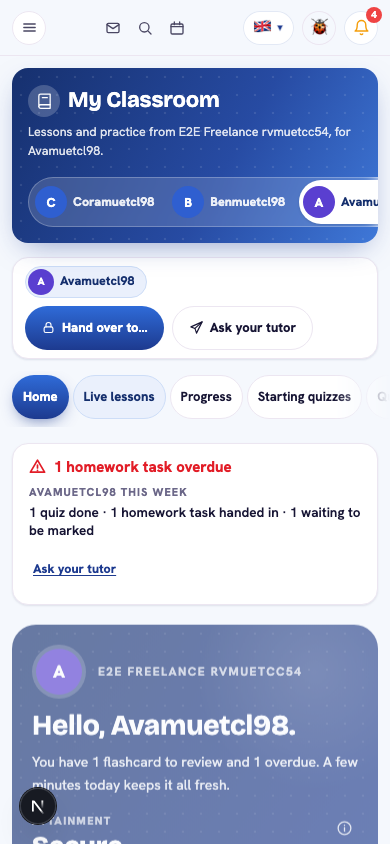
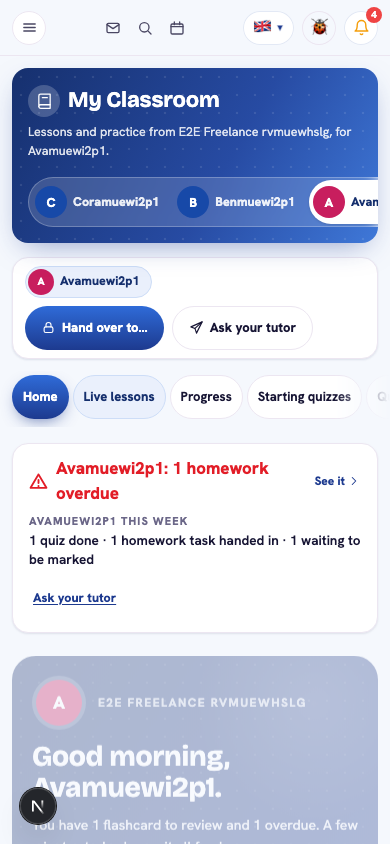
hub: R-12 printable progress report

diff --git a/features/learninghub/progress/ProgressReport.tsx b/features/learninghub/progress/ProgressReport.tsx
@@ -1,0 +1,133 @@
+"use client";
+
+import { useEffect, useMemo, useState } from "react";
+import { createPortal } from "react-dom";
+import { get } from "@/lib/api";
+import type { PanelProps } from "../panelTypes";
+import type { StudentHomework } from "../homework/hwTypes";
+import { PARENT_COPY } from "../family/parentCopy";
+import { friendlyError } from "../kit";
+import { hubPath, type Mastery } from "../shared-assess/api";
+import { errMsg } from "../types";
+import { starsOf } from "./KidStars";
+
+// R-12 printable progress report: one child's summary as a clean paper page (window.print + @media print, no PDF service).
+// Child-scoped: it only ever fetches the chosen child's mastery and homework, and shows nothing from the tutor's private
+// notes, other children, or free-text feedback. The whole page is plain black on white so it prints well without theme colours.
+
+const TERM_DAYS = 90; // "this term" = the last 90 days of homework (there is no term calendar in the data yet)
+const day = 86_400_000;
+const fmt = (iso: string | number) => new Date(iso).toLocaleDateString("en-GB", { day: "numeric", month: "long", year: "numeric" });
+const starWords = (n: number) => (n === 0 ? "not started yet" : `${n} of 3 stars`);
+
+const PRINT_CSS = `
+@media print {
+  body > *:not(#aos-report-root) { display: none !important; }
+  #aos-report-root { position: static !important; inset: auto !important; overflow: visible !important; background: #fff !important; }
+  #aos-report-root .aos-noprint { display: none !important; }
+  #aos-report-root .aos-sheet { box-shadow: none !important; border: 0 !important; margin: 0 !important; max-width: none !important; padding: 0 !important; }
+  @page { margin: 16mm; }
+}`;
+
+export function ProgressReportButton({ onOpen }: { onOpen: () => void }) {
+  return (
+    <button type="button" onClick={onOpen} data-testid="hub-report-open"
+      className="inline-flex min-h-[44px] items-center gap-1.5 rounded-full border border-[var(--line)] bg-[var(--surface)] px-4 text-[13px] font-extrabold text-[var(--brand)] hover:bg-[var(--brand-soft)] focus-visible:ring-2 focus-visible:ring-[var(--brand-2)]">
+      {PARENT_COPY.reportButton}
+    </button>
+  );
+}
+
+export function ProgressReport({ p, childId, onClose }: { p: PanelProps; childId: string; onClose: () => void }) {
+  const [mastery, setMastery] = useState<Mastery | null>(null);
+  const [homework, setHomework] = useState<StudentHomework[] | null>(null);
+  const [err, setErr] = useState<string | null>(null);
+  const [tick, setTick] = useState(0);
+  const [now] = useState(() => Date.now());
+  useEffect(() => {
+    let live = true;
+    Promise.all([get<Mastery>(hubPath(p.qs, "/mastery", { childId })), get<StudentHomework[] | { homework?: StudentHomework[] }>(hubPath(p.qs, "/homework", { childId }))])
+      .then(([m, h]) => { if (!live) return; setErr(null); setMastery(m); setHomework(Array.isArray(h) ? h : h?.homework ?? []); })
+      .catch((e) => { if (live) setErr(errMsg(e, PARENT_COPY.reportLoadFailed)); });
+    return () => { live = false; };
+  }, [p.qs, childId, tick]);
+  useEffect(() => { const k = (e: KeyboardEvent) => { if (e.key === "Escape") onClose(); }; window.addEventListener("keydown", k); return () => window.removeEventListener("keydown", k); }, [onClose]);
+
+  const first = (p.child?.childName ?? mastery?.childName ?? "").split(" ")[0] || "Your child";
+  const full = p.child?.childName ?? mastery?.childName ?? "";
+  const data = useMemo(() => {
+    if (!mastery || !homework) return null;
+    const mine = homework.filter((h) => h.childId === childId && now - new Date(h.dueAt).getTime() <= TERM_DAYS * day);
+    const set = mine.filter((h) => new Date(h.dueAt).getTime() <= now + 7 * day || h.submission.status !== "assigned");
+    const done = set.filter((h) => h.submission.status !== "assigned").length;
+    const open = homework.filter((h) => h.childId === childId && h.submission.status === "assigned").sort((a, b) => a.dueAt.localeCompare(b.dueAt));
+    const overdue = open.filter((h) => new Date(h.dueAt).getTime() < now);
+    const subjects = mastery.subjects.filter((s) => s.masteryPct != null || s.topics.some((t) => t.attempts > 0)).sort((a, b) => a.subject.localeCompare(b.subject));
+    const topics = subjects.flatMap((s) => s.topics.filter((t) => t.masteryPct != null && t.attempts > 0).map((t) => ({ ...t, subject: s.subject }))).sort((a, b) => (a.masteryPct ?? 0) - (b.masteryPct ?? 0));
+    const next: string[] = [];
+    for (const h of overdue.slice(0, 3)) next.push(`Hand in "${h.title}" (it was due ${fmt(h.dueAt)}).`);
+    for (const h of open.filter((x) => new Date(x.dueAt).getTime() >= now).slice(0, 2)) next.push(`Homework "${h.title}" is due ${fmt(h.dueAt)}.`);
+    if (topics.length > 1) next.push(`Practise ${[topics[0].topic, topics[0].subtopic].filter(Boolean).join(" › ")} (${topics[0].subject}) next.`);
+    if (next.length === 0) next.push(subjects.length ? "Nothing is waiting. A short quiz or a few flashcards keeps things fresh." : "Start with a first quiz, so there is something to report on.");
+    return { done, setN: set.length, subjects, next };
+  }, [mastery, homework, childId, now]);
+
+  if (typeof document === "undefined") return null;
+  const S: React.CSSProperties = { background: "#fff", color: "#111" };
+  return createPortal(
+    <div id="aos-report-root" role="dialog" aria-modal="true" aria-label={`${first}'s progress report`} data-testid="hub-report" className="fixed inset-0 z-[80] overflow-auto" style={{ background: "#eef0f4" }}>
+      <style>{PRINT_CSS}</style>
+      <div className="aos-noprint sticky top-0 z-10 flex flex-wrap items-center gap-2 border-b px-4 py-2" style={{ background: "#fff", borderColor: "#d5d9e0", color: "#111" }}>
+        <button type="button" onClick={onClose} data-testid="hub-report-close" className="min-h-[44px] rounded-full px-4 text-[13px] font-extrabold" style={{ border: "1px solid #b8bec9", color: "#111", background: "#fff" }}>Back</button>
+        <button type="button" onClick={() => window.print()} disabled={!data} data-testid="hub-report-print" className="ml-auto min-h-[44px] rounded-full px-5 text-[13px] font-extrabold disabled:opacity-50" style={{ background: "#1f3a8a", color: "#fff" }}>Print or save as PDF</button>
+      </div>
+      <article className="aos-sheet mx-auto my-4 max-w-[800px] rounded-lg px-6 py-7 sm:px-10 sm:py-10" style={{ ...S, boxShadow: "0 2px 12px rgba(0,0,0,.12)", fontFamily: "system-ui, sans-serif" }}>
+        <header style={{ borderBottom: "2px solid #111", paddingBottom: 10 }}>
+          <div style={{ fontSize: 12, fontWeight: 700, letterSpacing: ".1em", textTransform: "uppercase", color: "#444" }}>{p.providerName ?? "Your tutor"} · Progress report</div>
+          <h1 style={{ color: "#111", margin: "6px 0 0", fontSize: 28, lineHeight: 1.15 }} data-testid="hub-report-name">{full || first}</h1>
+          <div style={{ fontSize: 13, color: "#444", marginTop: 2 }}>Prepared on {fmt(now)}</div>
+        </header>
+        {err && !data ? (
+          <div role="alert" style={{ marginTop: 20, fontSize: 14 }}>{friendlyError(err, "My Classroom")} <button type="button" className="aos-noprint" onClick={() => setTick((t) => t + 1)} style={{ minHeight: 44, textDecoration: "underline", fontWeight: 700 }}>{PARENT_COPY.tryAgain}</button></div>
+        ) : !data ? (
+          <div role="status" style={{ marginTop: 20, fontSize: 14, color: "#444" }}>Building the report…</div>
+        ) : (
+          <>
+            <section style={{ marginTop: 20 }}>
+              <h2 style={{ color: "#111", fontSize: 16, margin: "0 0 8px" }}>Subjects</h2>
+              {data.subjects.length === 0 ? <p style={{ margin: 0, fontSize: 14 }}>{first} hasn&apos;t finished a quiz yet, so there are no results to show. They will appear here after the first one.</p> : (
+                <table style={{ width: "100%", borderCollapse: "collapse", fontSize: 14 }}>
+                  <thead><tr style={{ textAlign: "left", borderBottom: "1px solid #999" }}><th style={{ padding: "6px 4px" }}>Subject</th><th style={{ padding: "6px 4px" }}>Stars</th><th style={{ padding: "6px 4px" }}>Level</th><th style={{ padding: "6px 4px" }}>Topics tried</th></tr></thead>
+                  <tbody>
+                    {data.subjects.map((s) => {
+                      const stars = starsOf(s.masteryPct);
+                      const tried = s.topics.filter((t) => t.attempts > 0).length;
+                      return (
+                        <tr key={s.subject} style={{ borderBottom: "1px solid #ddd" }}>
+                          <td style={{ padding: "8px 4px", fontWeight: 700 }}>{s.subject}</td>
+                          <td style={{ padding: "8px 4px" }}><span aria-hidden style={{ letterSpacing: 2 }}>{"★".repeat(stars)}{"☆".repeat(3 - stars)}</span> <span>{starWords(stars)}</span></td>
+                          <td style={{ padding: "8px 4px" }}>{s.band ?? "Not started yet"}</td>
+                          <td style={{ padding: "8px 4px" }}>{s.topics.length ? `${tried} of ${s.topics.length}` : "–"}</td>
+                        </tr>
+                      );
+                    })}
+                  </tbody>
+                </table>
+              )}
+            </section>
+            <section style={{ marginTop: 20 }}>
+              <h2 style={{ color: "#111", fontSize: 16, margin: "0 0 8px" }}>Homework this term</h2>
+              <p style={{ margin: 0, fontSize: 14 }} data-testid="hub-report-homework">{data.setN === 0 ? "No homework has been set in the last 3 months." : <><b>{data.done} of {data.setN}</b> handed in (the last 3 months).</>}</p>
+            </section>
+            <section style={{ marginTop: 20 }}>
+              <h2 style={{ color: "#111", fontSize: 16, margin: "0 0 8px" }}>Next steps</h2>
+              <ul style={{ margin: 0, paddingLeft: 20, listStyle: "disc", fontSize: 14, lineHeight: 1.6 }}>{data.next.map((t) => <li key={t}>{t}</li>)}</ul>
+            </section>
+            <footer style={{ marginTop: 28, borderTop: "1px solid #bbb", paddingTop: 8, fontSize: 11, color: "#555" }}>This report covers {first} only. Levels use {p.providerName ?? "the tutor"}&apos;s own level names.</footer>
+          </>
+        )}
+      </article>
+    </div>,
+    document.body,
+  );
+}

diff --git a/e2e/review/parent-report.spec.ts b/e2e/review/parent-report.spec.ts
@@ -1,0 +1,50 @@
+import fs from "node:fs";
+import path from "node:path";
+import { test, expect } from "@playwright/test";
+import { ROOT } from "../helpers/env";
+import { buildFixture, ctxFor, settle, gotoHubPage, type Fx } from "./fixture";
+
+// R-12 + parent verdict/plain language: the fixture parent sees a one-line verdict (tap goes to homework), no teaching jargon on
+// Home/Progress, and a printable report that names only the chosen child. Throwaway accounts only; nothing here sends mail.
+const OUT = path.join(ROOT, "docs/teaching-hub-review/screenshots/after/parent");
+test.describe.configure({ mode: "serial" });
+let fx: Fx;
+test.beforeAll(async () => { test.setTimeout(400_000); fx = await buildFixture(3, true); });
+
+for (const [vpName, vp] of [["390", { width: 390, height: 844 }], ["1440", { width: 1440, height: 900 }]] as const) {
+  test(`verdict + report @${vpName}`, async ({ browser }) => {
+    test.setTimeout(400_000);
+    const ctx = await ctxFor(browser, "parent", vp);
+    const page = await ctx.newPage();
+    fs.mkdirSync(OUT, { recursive: true });
+    const shot = (n: string, full = true) => page.screenshot({ path: path.join(OUT, `${n}-${vpName}.png`), fullPage: full });
+    const kid = fx.kids[0];
+    await gotoHubPage(page, `/custdash/learninghub?tab=home&child=${kid.id}`, fx);
+    await settle(page);
+    const verdict = page.getByTestId("hub-parent-verdict");
+    await expect(verdict).toBeVisible({ timeout: 30_000 });
+    await expect(verdict).toContainText(/1 homework overdue/);
+    expect(((await page.locator("#learning-hub").innerText()).match(/diagnostic|mastery|placement test/gi)) ?? []).toHaveLength(0);
+    await shot("home-verdict");
+    await verdict.click();
+    await expect(page).toHaveURL(/tab=homework/);
+
+    await page.goto(`/custdash/learninghub?tab=dashboard&child=${kid.id}`);
+    await settle(page);
+    expect(((await page.locator("#learning-hub").innerText()).match(/diagnostic|mastery|placement/gi)) ?? []).toHaveLength(0);
+    await page.getByTestId("hub-report-open").click();
+    const report = page.getByTestId("hub-report");
+    await expect(report.getByTestId("hub-report-homework")).toBeVisible({ timeout: 30_000 });
+    const text = await report.innerText();
+    expect(text).toContain(kid.name);
+    for (const other of fx.kids.slice(1)) expect(text).not.toContain(other.name);
+    expect(text).toMatch(/Subjects/);
+    expect(text).toMatch(/Next steps/);
+    await shot("report-screen", false);
+    await page.emulateMedia({ media: "print" });
+    await expect(page.getByTestId("hub-report-print")).toBeHidden();
+    await shot("report-print", false);
+    await page.emulateMedia({ media: "screen" });
+    await ctx.close();
+  });
+}

diff --git a/features/learninghub/ProgressPanel.tsx b/features/learninghub/ProgressPanel.tsx
@@ -14,6 +14,7 @@ import { EmptyState, FOCUS, TAP } from "./shared-assess/ui";
 import { errMsg } from "./types";
 import { useFamily } from "./family/FamilyContext";
 import { KidStars } from "./progress/KidStars";
+import { ProgressReport, ProgressReportButton } from "./progress/ProgressReport";
 
 // Progress — the mastery dashboard. A family sees their chosen child's mastery by
 // topic, growth from the placement-test baseline and the recent-quiz trend; a
@@ -25,11 +26,18 @@ export function Panel(p: PanelProps) {
   const [open, setOpen] = useState<{ id: string; name: string } | null>(() => (p.canEdit ? takeOpenStudent() : null));
   const [busy, setBusy] = useState(false);
   const kid = useFamily().kid;
+  const [report, setReport] = useState(false);
 
   if (!p.canEdit) {
     if (kid && p.childId) return <KidStars p={p} childId={p.childId} />; // a child sees stars only (P-03)
     if (!p.childId) return <EmptyState icon="users" title="Choose a child" body="Pick which child's progress you'd like to see." />;
-    return <><CurriculumRings qs={p.childQs ?? p.qs} canEdit={false} onOpenMap={() => p.goTo?.("notes")} /><ProgressView p={p} childId={p.childId} /></>;
+    return (
+      <>
+        <div className="mb-3 flex justify-end"><ProgressReportButton onOpen={() => setReport(true)} /></div>
+        <CurriculumRings qs={p.childQs ?? p.qs} canEdit={false} onOpenMap={() => p.goTo?.("notes")} /><ProgressView p={p} childId={p.childId} />
+        {report && <ProgressReport p={p} childId={p.childId} onClose={() => setReport(false)} />}
+      </>
+    );
   }
 
   if (!open) return <Overview p={p} onOpen={(id, name) => setOpen({ id, name })} />;

diff --git a/docs/teaching-hub-review/07-changes/R-12.md b/docs/teaching-hub-review/07-changes/R-12.md
@@ -1,0 +1,15 @@
+# R-12 Printable progress report (with the parent verdict and plain-language pass)
+
+**What / why.** Parents asked for something they can keep or show a school (P1/P2 journals). Parent Progress now has a "Progress report" button (one tap). It opens a paper-style page for the chosen child only: subjects with stars in words ("3 of 3 stars") and the tutor's own level name, homework handed in vs set (last 3 months), and next steps. "Print or save as PDF" calls `window.print()`; `@media print` hides the app and the toolbar. No PDF service, no email, no new API.
+
+**Same commit set, parent Home.** The top card now leads with one verdict line per chosen child, from existing data only: "Ava: 1 homework overdue" (red, taps to Homework), "Ava: All done this week" (nothing to do and something handed in this week, taps to Progress), otherwise "Ava: On track". Jargon on parent screens is replaced through one string table: "Take the placement test" becomes "Take the starting quiz", "Mastery snapshot" becomes "How they're doing", "mastery" becomes "level", "Coverage" becomes "Topics tried", "placement-test starting point" becomes "starting quiz result". Network errors on parent Progress use `friendlyError` (P-05/P-13) with "Try again". "Starting quiz" is kept. Tutor and child wording is unchanged.
+
+**Files.** `features/learninghub/family/parentCopy.ts` (new string table), `progress/ProgressReport.tsx` (new), `ProgressPanel.tsx`, `progress/ProgressView.tsx`, `progress/Attainment.tsx`, `home/StudentHome.tsx`, `e2e/review/parent-report.spec.ts`.
+
+**Privacy.** Fetches only the chosen child's `/mastery` and `/homework`; renders no tutor notes, no free-text feedback, no other children. Spec asserts the other fixture children's names never appear.
+
+**Revert.** `git revert` the two commits. Frontend only.
+
+**Tests.** `npx tsc --noEmit` clean; `e2e/review/parent-report.spec.ts` at 390 and 1440 including print emulation. Screenshots in `screenshots/after/parent/`.
+
+**Not done.** Notifications/emails (R-9, R-14); a verdict line for each of several children at once; a real term calendar.
